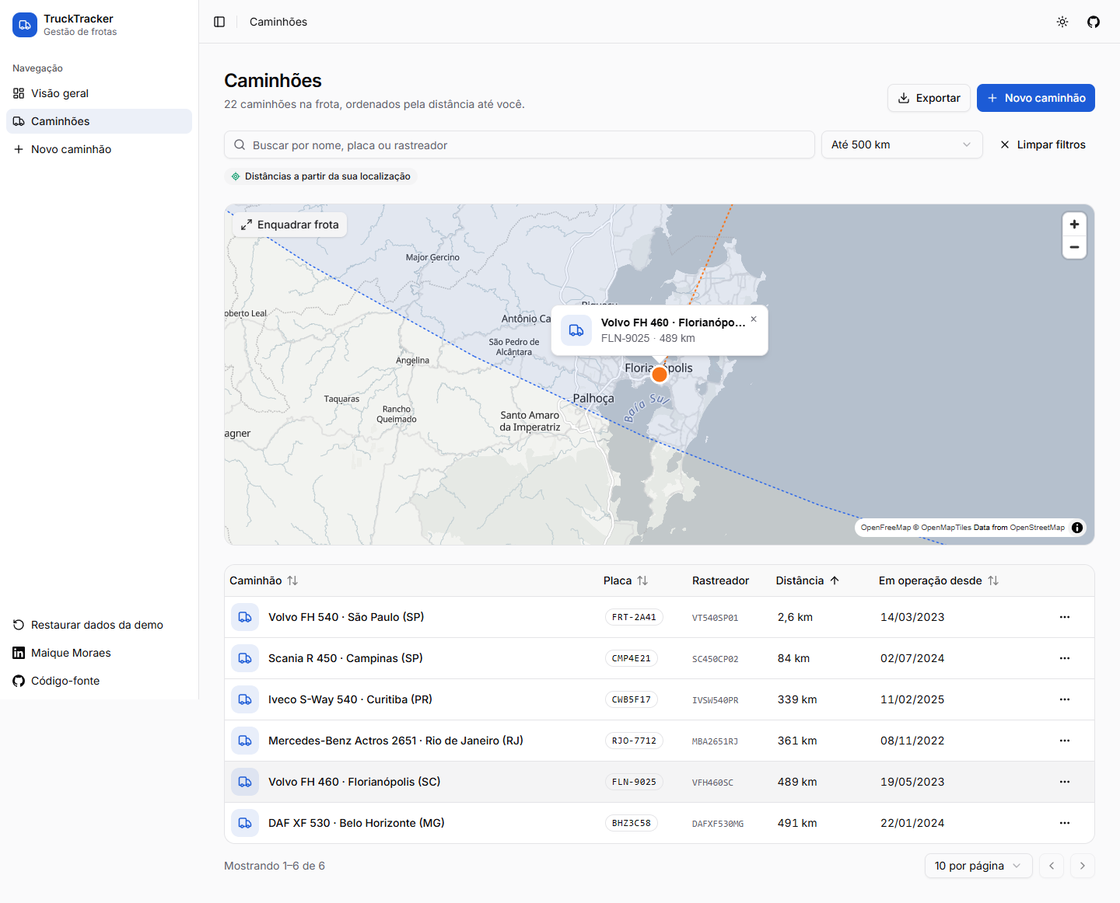
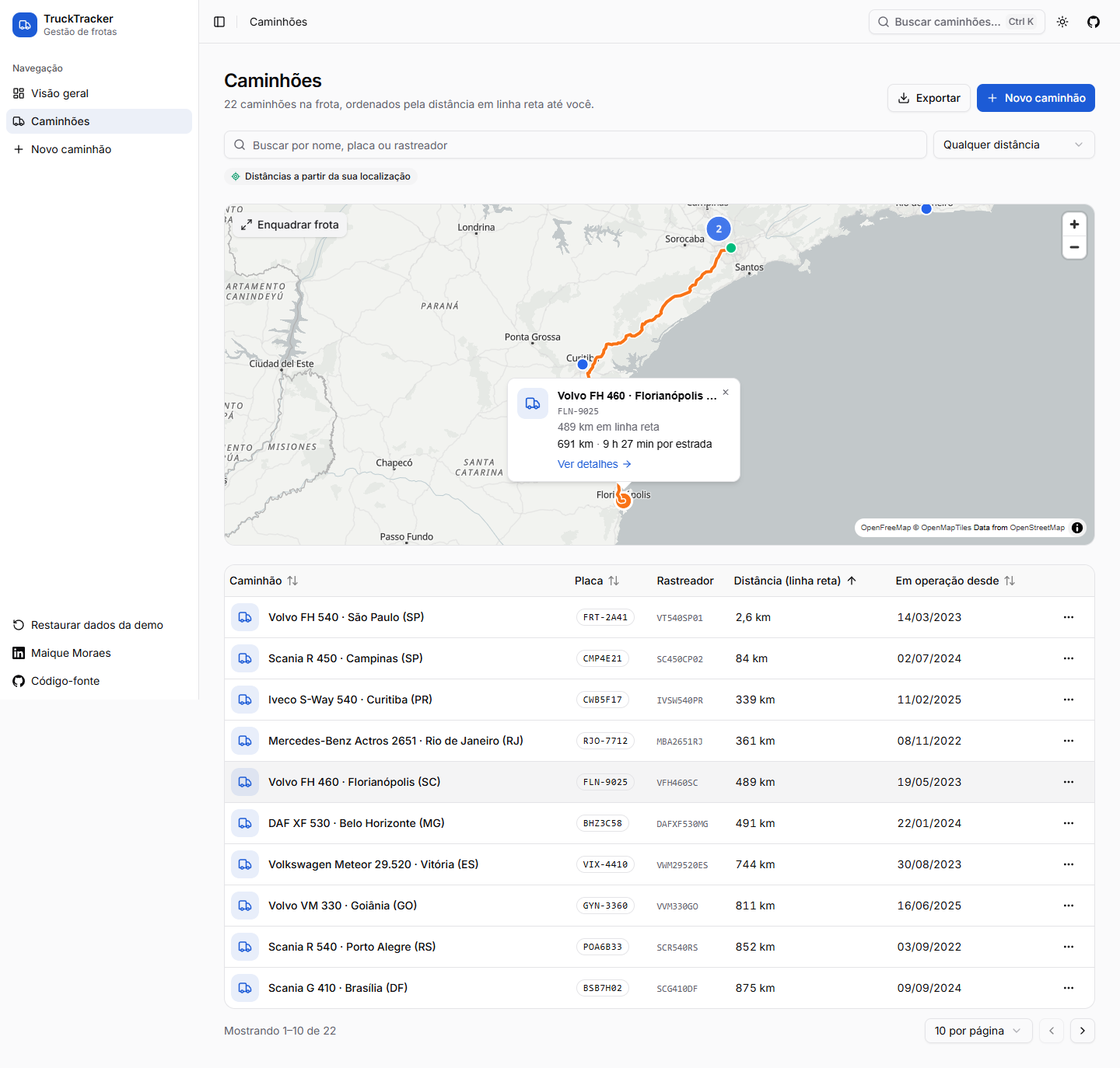
docs: document road routes, truck page and command palette

diff --git a/README.pt-BR.md b/README.pt-BR.md
@@ -31,17 +31,19 @@ Um ano depois, reconstruí o projeto como **v2**: um case de portfólio que resp
 
 ## ✨ Funcionalidades
 
-|                                |                                                                                                                                                                                                                                                                                                                               |
-| ------------------------------ | ----------------------------------------------------------------------------------------------------------------------------------------------------------------------------------------------------------------------------------------------------------------------------------------------------------------------------- |
-| 🗺 **Mapa vetorial**           | MapLibre GL com tiles da OpenFreeMap: zoom suave, **agrupamento de marcadores**, estilos claro/escuro, botão para enquadrar a frota e popup do caminhão selecionado.                                                                                                                                                          |
-| 📍 **Distâncias**              | Cada caminhão é ordenado pela distância até você (Haversine). O mapa desenha sua posição, o **raio de busca** como círculo e uma **linha até o caminhão selecionado**. Se o acesso à localização for negado, usa São Paulo como referência e avisa.                                                                           |
-| 🔎 **Filtros compartilháveis** | Busca por nome, placa ou rastreador (ignorando maiúsculas, acentos e pontuação), além de raio de distância. Filtros e caminhão selecionado ficam na **URL**: qualquer visão pode ser salva ou compartilhada.                                                                                                                  |
-| 📊 **Visão geral**             | Indicadores, os cinco caminhões mais próximos e um gráfico de distribuição por distância feito em HTML/CSS puro.                                                                                                                                                                                                              |
-| ➕ **Cadastro e edição**       | Um único formulário para os dois fluxos (React Hook Form + Zod): formatação da placa durante a digitação (padrões antigo `ABC-1234` e Mercosul `ABC1D23`), seletor no mapa com marcador arrastável e foto **redimensionada no navegador** antes de salvar. Conflitos da API (placa duplicada, `409`) aparecem no campo certo. |
-| ⚡ **Interface otimista**      | Excluir e editar atualizam a tela na hora e **desfazem a mudança** se a requisição falhar.                                                                                                                                                                                                                                    |
-| 📄 **Exportação**              | Relatório em PDF (jsPDF carregado sob demanda) e CSV compatível com Excel da lista filtrada.                                                                                                                                                                                                                                  |
-| 🌗 **Temas e responsividade**  | Tema claro, escuro ou do sistema, sem piscar ao carregar; barra lateral recolhível que vira gaveta no mobile.                                                                                                                                                                                                                 |
-| ♿ **Acessível**               | Tabela operável pelo teclado, controles com rótulos, landmarks, link de "pular para o conteúdo" e **auditorias automatizadas WCAG 2.1 AA** nos dois temas.                                                                                                                                                                    |
+|                                |                                                                                                                                                                                                                                                                                                                                                                                                                                         |
+| ------------------------------ | --------------------------------------------------------------------------------------------------------------------------------------------------------------------------------------------------------------------------------------------------------------------------------------------------------------------------------------------------------------------------------------------------------------------------------------- |
+| 🗺 **Mapa vetorial**           | MapLibre GL com tiles da OpenFreeMap: zoom suave, **agrupamento de marcadores**, estilos claro/escuro, botão para enquadrar a frota e popup do caminhão selecionado.                                                                                                                                                                                                                                                                    |
+| 📍 **Linha reta e estrada**    | A lista é ordenada pela distância **em linha reta** até você (Haversine): instantânea, sem depender de rede e o sentido natural de um raio de busca. Para o caminhão selecionado, o mapa desenha a **rota real por estrada**, com distância e **tempo de viagem** (OSRM), e volta para a linha reta se o roteamento estiver indisponível. Se o acesso à localização for negado, as distâncias partem de São Paulo, e a aplicação avisa. |
+| 🔎 **Filtros compartilháveis** | Busca por nome, placa ou rastreador (ignorando maiúsculas, acentos e pontuação), além de raio de distância. Filtros e caminhão selecionado ficam na **URL**: qualquer visão pode ser salva ou compartilhada.                                                                                                                                                                                                                            |
+| 📊 **Visão geral**             | Indicadores, os cinco caminhões mais próximos e um gráfico de distribuição por distância feito em HTML/CSS puro.                                                                                                                                                                                                                                                                                                                        |
+| 🚚 **Página do caminhão**      | `/caminhoes/:id`: ficha do veículo, rota por estrada no mapa, "abrir rota no Google Maps", copiar coordenadas, editar/excluir e 404 para IDs inexistentes.                                                                                                                                                                                                                                                                              |
+| ⌨ **Paleta de comandos**      | `Ctrl/⌘ + K` encontra qualquer caminhão por nome, placa ou rastreador, navega entre páginas e troca o tema, tudo pelo teclado.                                                                                                                                                                                                                                                                                                          |
+| ➕ **Cadastro e edição**       | Um único formulário para os dois fluxos (React Hook Form + Zod): formatação da placa durante a digitação (padrões antigo `ABC-1234` e Mercosul `ABC1D23`), seletor no mapa com marcador arrastável e foto **redimensionada no navegador** antes de salvar. Conflitos da API (placa duplicada, `409`) aparecem no campo certo.                                                                                                           |
+| ⚡ **Interface otimista**      | Excluir e editar atualizam a tela na hora e **desfazem a mudança** se a requisição falhar.                                                                                                                                                                                                                                                                                                                                              |
+| 📄 **Exportação**              | Relatório em PDF (jsPDF carregado sob demanda) e CSV compatível com Excel da lista filtrada.                                                                                                                                                                                                                                                                                                                                            |
+| 🌗 **Temas e responsividade**  | Tema claro, escuro ou do sistema, sem piscar ao carregar; barra lateral recolhível que vira gaveta no mobile.                                                                                                                                                                                                                                                                                                                           |
+| ♿ **Acessível**               | Tabela operável pelo teclado, controles com rótulos, landmarks, link de "pular para o conteúdo" e **auditorias automatizadas WCAG 2.1 AA** nos dois temas.                                                                                                                                                                                                                                                                              |
 
 <details>
 <summary><strong>📸 Screenshots</strong></summary>
@@ -49,6 +51,10 @@ Um ano depois, reconstruí o projeto como **v2**: um case de portfólio que resp
 | Lista da frota: raio de busca + caminhão selecionado                             | Tema escuro                                               |
 | -------------------------------------------------------------------------------- | --------------------------------------------------------- |
 | ![Lista com raio e rota até o caminhão selecionado](docs/screenshots/trucks.png) | ![Lista no tema escuro](docs/screenshots/trucks-dark.png) |
+
+| Página do caminhão com rota por estrada                                              | Paleta de comandos                                                             |
+| ------------------------------------------------------------------------------------ | ------------------------------------------------------------------------------ |
+| ![Página do caminhão com rota e tempo de viagem](docs/screenshots/truck-details.png) | ![Paleta de comandos buscando caminhões](docs/screenshots/command-palette.png) |
 
 | Novo caminhão                                                     | Validação                                              |
 | ----------------------------------------------------------------- | ------------------------------------------------------ |
@@ -62,20 +68,21 @@ Um ano depois, reconstruí o projeto como **v2**: um case de portfólio que resp
 
 ## 🛠 Tecnologias e decisões
 
-| Responsabilidade   | Escolha                                                         | Por quê (e com o que comparei)                                                                                                                                                                                                                                 |
-| ------------------ | --------------------------------------------------------------- | -------------------------------------------------------------------------------------------------------------------------------------------------------------------------------------------------------------------------------------------------------------- |
-| Interface          | **React 19** + **React Compiler**                               | Memoização automática, sem `useMemo`/`useCallback` escritos à mão. As regras de ESLint do compilador pegam renders impuros e `setState` dentro de efeitos.                                                                                                     |
-| Linguagem          | **TypeScript 6** (strict, `noUncheckedIndexedAccess`)           | O TypeScript 7 (compilador nativo em Go) já saiu, mas o `typescript-eslint` só suporta `<6.1`. Aqui, lint com tipos vale mais que velocidade de compilação.                                                                                                    |
-| Build              | **Vite 8** (Rolldown)                                           | Code splitting por rota, chunks de vendors com cache longo e bibliotecas pesadas (jsPDF, ~400 kB) baixadas só quando necessárias.                                                                                                                              |
-| Mapas              | **MapLibre GL** + `@vis.gl/react-maplibre` + **OpenFreeMap**    | Tiles vetoriais em WebGL, agrupamento nativo e estilos orientados a dados. O **Leaflet** usa tiles raster e o `react-leaflet` não tem release desde 2024. **Google Maps/Mapbox** exigem chave de API e billing, que ficariam expostos num repositório público. |
-| Estado do servidor | **TanStack Query**                                              | Fábrica de query keys, mutações otimistas com rollback e pré-busca nos loaders das rotas. Substituiu o SWR e um slice Redux que só duplicava o cache.                                                                                                          |
-| Rotas              | **React Router 8** (data mode)                                  | Rotas lazy, loaders que começam a buscar dados em paralelo ao download do chunk, breadcrumb a partir do `handle` de cada rota.                                                                                                                                 |
-| UI                 | **Tailwind CSS 4** + **shadcn/ui** (Radix)                      | Primitivos acessíveis, com código que é nosso e tema por variáveis CSS. Substituiu o MUI 6, cujo CSS-in-JS em runtime e visual padrão não combinavam com um design próprio.                                                                                    |
-| Formulários        | **React Hook Form** + **Zod 4**                                 | Um único schema valida o formulário, e um `transform` estreita a saída para o tipo de domínio.                                                                                                                                                                 |
-| Contrato da API    | **Zod na fronteira**                                            | As respostas são validadas e convertidas do DTO snake_case do desafio para um modelo de domínio em camelCase.                                                                                                                                                  |
-| API fake           | **MSW 3**                                                       | Os mesmos handlers servem a demo no navegador (Service Worker), os testes unitários (Node) e os testes E2E. Substituiu o **MirageJS**, que está sem manutenção.                                                                                                |
-| Testes             | **Vitest 5**, **Testing Library**, **Playwright**, **axe-core** | Testes de comportamento (unitários/integração) mais E2E e auditoria de acessibilidade em navegador real.                                                                                                                                                       |
-| Ferramentas        | ESLint 10, Prettier, knip, husky + lint-staged, Dependabot      | Análise estática, detecção de código morto e higiene de dependências, tudo exigido no CI.                                                                                                                                                                      |
+| Responsabilidade   | Escolha                                                         | Por quê (e com o que comparei)                                                                                                                                                                                                                                        |
+| ------------------ | --------------------------------------------------------------- | --------------------------------------------------------------------------------------------------------------------------------------------------------------------------------------------------------------------------------------------------------------------- |
+| Interface          | **React 19** + **React Compiler**                               | Memoização automática, sem `useMemo`/`useCallback` escritos à mão. As regras de ESLint do compilador pegam renders impuros e `setState` dentro de efeitos.                                                                                                            |
+| Linguagem          | **TypeScript 6** (strict, `noUncheckedIndexedAccess`)           | O TypeScript 7 (compilador nativo em Go) já saiu, mas o `typescript-eslint` só suporta `<6.1`. Aqui, lint com tipos vale mais que velocidade de compilação.                                                                                                           |
+| Build              | **Vite 8** (Rolldown)                                           | Code splitting por rota, chunks de vendors com cache longo e bibliotecas pesadas (jsPDF, ~400 kB) baixadas só quando necessárias.                                                                                                                                     |
+| Mapas              | **MapLibre GL** + `@vis.gl/react-maplibre` + **OpenFreeMap**    | Tiles vetoriais em WebGL, agrupamento nativo e estilos orientados a dados. O **Leaflet** usa tiles raster e o `react-leaflet` não tem release desde 2024. **Google Maps/Mapbox** exigem chave de API e billing, que ficariam expostos num repositório público.        |
+| Estado do servidor | **TanStack Query**                                              | Fábrica de query keys, mutações otimistas com rollback e pré-busca nos loaders das rotas. Substituiu o SWR e um slice Redux que só duplicava o cache.                                                                                                                 |
+| Rotas              | **React Router 8** (data mode)                                  | Rotas lazy, loaders que começam a buscar dados em paralelo ao download do chunk, breadcrumb a partir do `handle` de cada rota.                                                                                                                                        |
+| UI                 | **Tailwind CSS 4** + **shadcn/ui** (Radix)                      | Primitivos acessíveis, com código que é nosso e tema por variáveis CSS. Substituiu o MUI 6, cujo CSS-in-JS em runtime e visual padrão não combinavam com um design próprio.                                                                                           |
+| Formulários        | **React Hook Form** + **Zod 4**                                 | Um único schema valida o formulário, e um `transform` estreita a saída para o tipo de domínio.                                                                                                                                                                        |
+| Contrato da API    | **Zod na fronteira**                                            | As respostas são validadas e convertidas do DTO snake_case do desafio para um modelo de domínio em camelCase.                                                                                                                                                         |
+| API fake           | **MSW 3**                                                       | Os mesmos handlers servem a demo no navegador (Service Worker), os testes unitários (Node) e os testes E2E. Substituiu o **MirageJS**, que está sem manutenção.                                                                                                       |
+| Roteamento         | **OSRM** (instância do FOSSGIS) + polyline6                     | Rotas por estrada sem chave de API e com CORS para o caminhão selecionado, decodificadas por um decodificador de polyline pequeno e testado. Em produção, o caminho seria hospedar OSRM/Valhalla ou usar um provedor com perfil de caminhão (peso, altura, pedágios). |
+| Testes             | **Vitest 5**, **Testing Library**, **Playwright**, **axe-core** | Testes de comportamento (unitários/integração) mais E2E e auditoria de acessibilidade em navegador real.                                                                                                                                                              |
+| Ferramentas        | ESLint 10, Prettier, knip, husky + lint-staged, Dependabot      | Análise estática, detecção de código morto e higiene de dependências, tudo exigido no CI.                                                                                                                                                                             |
 
 ## 🏗 Arquitetura
 
@@ -122,14 +129,14 @@ src/
 
 ## ✅ Qualidade
 
-| Verificação                                                               | O que garante                                                                                                                                                                                  |
-| ------------------------------------------------------------------------- | ---------------------------------------------------------------------------------------------------------------------------------------------------------------------------------------------- |
-| **113 testes unitários e de integração** (Vitest + Testing Library + MSW) | As páginas renderizam as rotas reais contra os handlers reais: ordenação, filtros na URL, exclusão otimista com rollback, conflitos na edição, validação, exportação, estados de erro e vazio. |
-| **42 testes E2E** (Playwright, desktop + mobile)                          | Build de produção em navegador real: API via Service Worker, mapa WebGL, fluxos de cadastro e exclusão, persistência após recarregar.                                                          |
-| **Auditorias de acessibilidade** (axe-core)                               | Nenhuma violação WCAG 2.1 A/AA em todas as páginas, nos temas claro **e** escuro, além de nenhum scroll horizontal em qualquer viewport.                                                       |
-| **Limites de cobertura**                                                  | 90% de statements/linhas e 85% de branches, medidos sobre o código gerado pelo React Compiler (hoje ~92% de statements, 85% de branches e 98% de linhas).                                      |
-| **Análise estática**                                                      | TypeScript strict, ESLint com as regras do React Compiler e do TanStack Query, knip para código não usado.                                                                                     |
-| **CI/CD**                                                                 | Cada push e PR roda tudo acima. A `main` publica no GitHub Pages. O Dependabot agrupa atualizações mensais.                                                                                    |
+| Verificação                                                               | O que garante                                                                                                                                                                                                                         |
+| ------------------------------------------------------------------------- | ------------------------------------------------------------------------------------------------------------------------------------------------------------------------------------------------------------------------------------- |
+| **140 testes unitários e de integração** (Vitest + Testing Library + MSW) | As páginas renderizam as rotas reais contra os handlers reais: ordenação, filtros na URL, exclusão otimista com rollback, conflitos na edição, validação, exportação, estados de erro e vazio.                                        |
+| **56 testes E2E** (Playwright, desktop + mobile)                          | Build de produção em navegador real: API via Service Worker, mapa WebGL, rotas por estrada (simuladas no contexto do navegador), página do caminhão, paleta de comandos, fluxos de cadastro e exclusão, persistência após recarregar. |
+| **Auditorias de acessibilidade** (axe-core)                               | Nenhuma violação WCAG 2.1 A/AA em todas as páginas, nos temas claro **e** escuro, além de nenhum scroll horizontal em qualquer viewport.                                                                                              |
+| **Limites de cobertura**                                                  | 90% de statements/linhas e 85% de branches, medidos sobre o código gerado pelo React Compiler (hoje ~92% de statements, 85% de branches e 98% de linhas).                                                                             |
+| **Análise estática**                                                      | TypeScript strict, ESLint com as regras do React Compiler e do TanStack Query, knip para código não usado.                                                                                                                            |
+| **CI/CD**                                                                 | Cada push e PR roda tudo acima. A `main` publica no GitHub Pages. O Dependabot agrupa atualizações mensais.                                                                                                                           |
 
 ## 🚀 Como rodar
 

diff --git a/README.md b/README.md
@@ -31,17 +31,19 @@ A year later I rebuilt it as **v2**, a portfolio case that answers one question:
 
 ## ✨ Features
 
-|                            |                                                                                                                                                                                                                                                                                              |
-| -------------------------- | -------------------------------------------------------------------------------------------------------------------------------------------------------------------------------------------------------------------------------------------------------------------------------------------- |
-| 🗺 **Vector map**          | MapLibre GL with OpenFreeMap tiles: smooth zoom, **marker clustering**, light/dark map styles, a "frame the fleet" control and a popup for the selected truck.                                                                                                                               |
-| 📍 **Distance-aware**      | Every truck is sorted by distance from you (Haversine). The map draws your position, the **search radius** as a circle and a **line to the selected truck**. If location access is denied, it falls back to São Paulo and says so.                                                           |
-| 🔎 **Shareable filters**   | Search by name, plate or tracker (ignoring case, accents and punctuation), plus a distance radius. Filters and the selected truck live in the **URL**, so any view can be bookmarked or shared.                                                                                              |
-| 📊 **Overview dashboard**  | KPIs, the five nearest trucks and a distance distribution chart built with plain HTML/CSS.                                                                                                                                                                                                   |
-| ➕ **Create & edit**       | One form for both flows (React Hook Form + Zod): live plate formatting (old `ABC-1234` and Mercosul `ABC1D23` formats), a map picker with a draggable marker, and photo upload **resized in the browser** before saving. API conflicts (duplicated plate, `409`) show up on the right field. |
-| ⚡ **Optimistic UI**       | Deleting and editing update the screen instantly and **roll back** if the request fails.                                                                                                                                                                                                     |
-| 📄 **Export**              | PDF report (jsPDF, loaded on demand) and an Excel-friendly CSV of the current filtered list.                                                                                                                                                                                                 |
-| 🌗 **Themes & responsive** | Light, dark or system theme with no flash on load; collapsible sidebar that becomes a drawer on mobile.                                                                                                                                                                                      |
-| ♿ **Accessible**          | Keyboard-operable table, labelled controls, landmarks, a skip link, and **automated WCAG 2.1 AA audits** in both themes.                                                                                                                                                                     |
+|                             |                                                                                                                                                                                                                                                                                                                                                                                                     |
+| --------------------------- | --------------------------------------------------------------------------------------------------------------------------------------------------------------------------------------------------------------------------------------------------------------------------------------------------------------------------------------------------------------------------------------------------- |
+| 🗺 **Vector map**           | MapLibre GL with OpenFreeMap tiles: smooth zoom, **marker clustering**, light/dark map styles, a "frame the fleet" control and a popup for the selected truck.                                                                                                                                                                                                                                      |
+| 📍 **Straight line & road** | The list is ranked by **straight-line** distance from you (Haversine): instant, offline and the natural meaning of a search radius. For the selected truck, the map draws the **actual road route** with driving distance and **travel time** (OSRM), falling back to a straight line if routing is unavailable. If location access is denied, distances start from São Paulo, and the app says so. |
+| 🔎 **Shareable filters**    | Search by name, plate or tracker (ignoring case, accents and punctuation), plus a distance radius. Filters and the selected truck live in the **URL**, so any view can be bookmarked or shared.                                                                                                                                                                                                     |
+| 📊 **Overview dashboard**   | KPIs, the five nearest trucks and a distance distribution chart built with plain HTML/CSS.                                                                                                                                                                                                                                                                                                          |
+| 🚚 **Truck page**           | `/caminhoes/:id`: vehicle sheet, road route on the map, "open route in Google Maps", copy coordinates, edit/delete, and a proper 404 for unknown ids.                                                                                                                                                                                                                                               |
+| ⌨ **Command palette**      | `Ctrl/⌘ + K` finds any truck by name, plate or tracker, jumps to pages or switches the theme, all from the keyboard.                                                                                                                                                                                                                                                                                |
+| ➕ **Create & edit**        | One form for both flows (React Hook Form + Zod): live plate formatting (old `ABC-1234` and Mercosul `ABC1D23` formats), a map picker with a draggable marker, and photo upload **resized in the browser** before saving. API conflicts (duplicated plate, `409`) show up on the right field.                                                                                                        |
+| ⚡ **Optimistic UI**        | Deleting and editing update the screen instantly and **roll back** if the request fails.                                                                                                                                                                                                                                                                                                            |
+| 📄 **Export**               | PDF report (jsPDF, loaded on demand) and an Excel-friendly CSV of the current filtered list.                                                                                                                                                                                                                                                                                                        |
+| 🌗 **Themes & responsive**  | Light, dark or system theme with no flash on load; collapsible sidebar that becomes a drawer on mobile.                                                                                                                                                                                                                                                                                             |
+| ♿ **Accessible**           | Keyboard-operable table, labelled controls, landmarks, a skip link, and **automated WCAG 2.1 AA audits** in both themes.                                                                                                                                                                                                                                                                            |
 
 <details>
 <summary><strong>📸 Screenshots</strong></summary>
@@ -49,6 +51,10 @@ A year later I rebuilt it as **v2**, a portfolio case that answers one question:
 | Fleet list: search radius + selected truck                                              | Dark theme                                                     |
 | --------------------------------------------------------------------------------------- | -------------------------------------------------------------- |
 | ![Trucks list with radius and route to the selected truck](docs/screenshots/trucks.png) | ![Trucks list in dark theme](docs/screenshots/trucks-dark.png) |
+
+| Truck page with road route                                                            | Command palette                                                           |
+| ------------------------------------------------------------------------------------- | ------------------------------------------------------------------------- |
+| ![Truck page with the road route and travel time](docs/screenshots/truck-details.png) | ![Command palette searching trucks](docs/screenshots/command-palette.png) |
 
 | New truck                                                         | Validation                                                 |
 | ----------------------------------------------------------------- | ---------------------------------------------------------- |
@@ -74,6 +80,7 @@ A year later I rebuilt it as **v2**, a portfolio case that answers one question:
 | Forms        | **React Hook Form** + **Zod 4**                                 | A single schema validates the form, and a `transform` narrows its output to the domain type.                                                                                                                                              |
 | API contract | **Zod at the boundary**                                         | Responses are parsed and mapped from the challenge's snake_case DTO to a camelCase domain model.                                                                                                                                          |
 | Mock API     | **MSW 3**                                                       | The same handlers serve the browser demo (Service Worker), unit tests (Node) and E2E tests. It replaced **MirageJS**, which is unmaintained.                                                                                              |
+| Routing      | **OSRM** (FOSSGIS instance) + polyline6                         | Keyless, CORS-enabled road routing for the selected truck, decoded with a small, tested polyline decoder. A production setup would self-host OSRM/Valhalla or use a provider with truck profiles (weight, height, tolls).                 |
 | Testing      | **Vitest 5**, **Testing Library**, **Playwright**, **axe-core** | Behavior-driven unit/integration tests plus real-browser E2E and accessibility audits.                                                                                                                                                    |
 | Tooling      | ESLint 10, Prettier, knip, husky + lint-staged, Dependabot      | Static analysis, dead-code detection and dependency hygiene, all enforced in CI.                                                                                                                                                          |
 
@@ -122,14 +129,14 @@ src/
 
 ## ✅ Quality
 
-| Check                                                             | What it guarantees                                                                                                                                                      |
-| ----------------------------------------------------------------- | ----------------------------------------------------------------------------------------------------------------------------------------------------------------------- |
-| **113 unit & integration tests** (Vitest + Testing Library + MSW) | Pages render the real routes against the real handlers: sorting, URL filters, optimistic delete with rollback, edit conflicts, validation, exports, error/empty states. |
-| **42 E2E tests** (Playwright, desktop + mobile)                   | Production build in a real browser: Service Worker API, WebGL map, create/delete flows, persistence after reload.                                                       |
-| **Accessibility audits** (axe-core)                               | No WCAG 2.1 A/AA violations on every page, in light **and** dark themes, plus no horizontal overflow on any viewport.                                                   |
-| **Coverage thresholds**                                           | 90% statements/lines, 85% branches, measured on React Compiler output (currently ~92% statements, 85% branches, 98% lines).                                             |
-| **Static analysis**                                               | Strict TypeScript, ESLint with React Compiler and TanStack Query rules, knip for unused code.                                                                           |
-| **CI/CD**                                                         | Every push and PR runs all of the above. `main` deploys to GitHub Pages. Dependabot groups monthly updates.                                                             |
+| Check                                                             | What it guarantees                                                                                                                                                                           |
+| ----------------------------------------------------------------- | -------------------------------------------------------------------------------------------------------------------------------------------------------------------------------------------- |
+| **140 unit & integration tests** (Vitest + Testing Library + MSW) | Pages render the real routes against the real handlers: sorting, URL filters, optimistic delete with rollback, edit conflicts, validation, exports, error/empty states.                      |
+| **56 E2E tests** (Playwright, desktop + mobile)                   | Production build in a real browser: Service Worker API, WebGL map, road routes (stubbed at the browser context), truck page, command palette, create/delete flows, persistence after reload. |
+| **Accessibility audits** (axe-core)                               | No WCAG 2.1 A/AA violations on every page, in light **and** dark themes, plus no horizontal overflow on any viewport.                                                                        |
+| **Coverage thresholds**                                           | 90% statements/lines, 85% branches, measured on React Compiler output (currently ~92% statements, 85% branches, 98% lines).                                                                  |
+| **Static analysis**                                               | Strict TypeScript, ESLint with React Compiler and TanStack Query rules, knip for unused code.                                                                                                |
+| **CI/CD**                                                         | Every push and PR runs all of the above. `main` deploys to GitHub Pages. Dependabot groups monthly updates.                                                                                  |
 
 ## 🚀 Getting started
 
